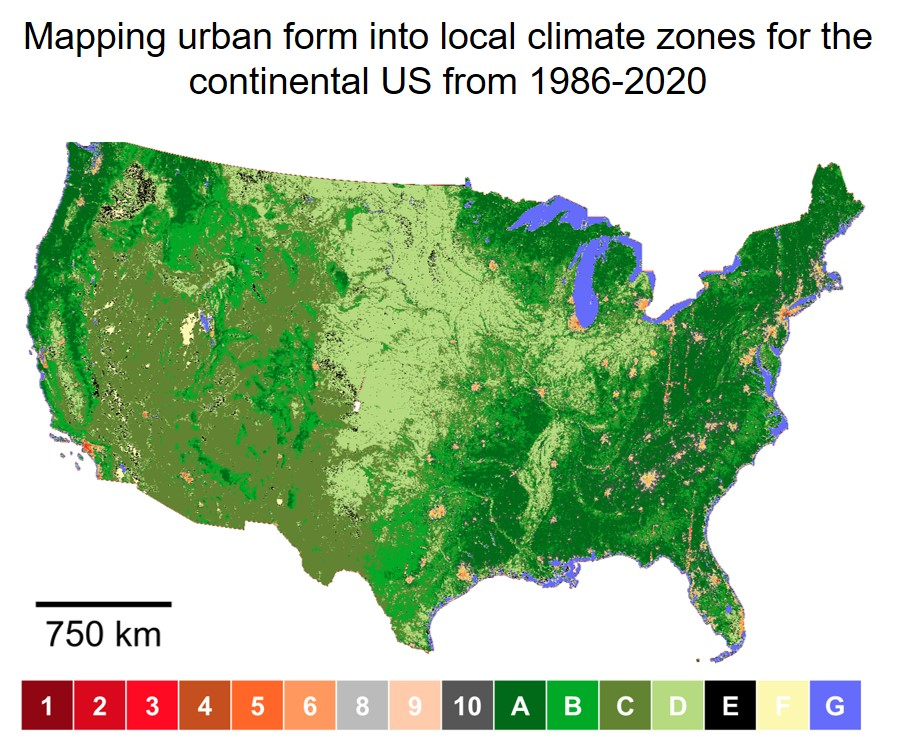
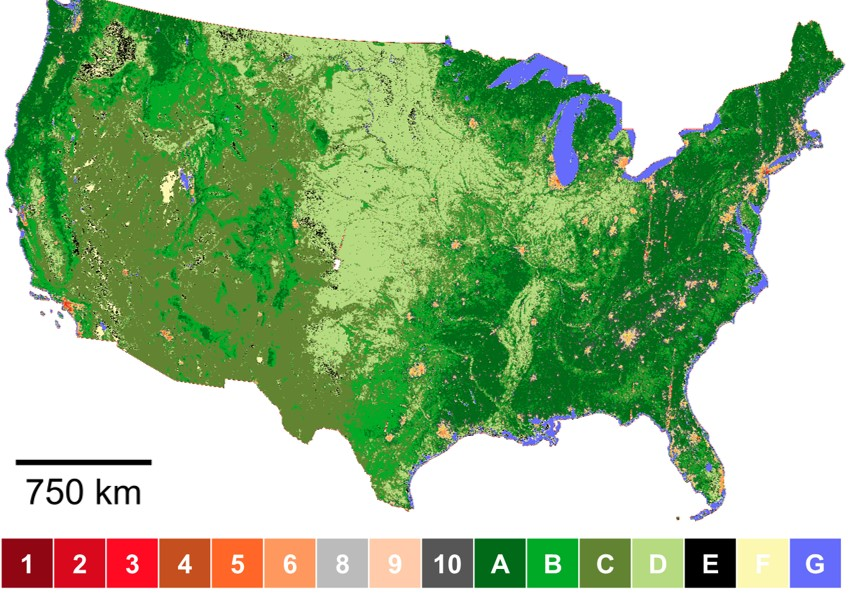
resize the LCZ maps

diff --git a/Readme.md b/Readme.md
@@ -2,7 +2,7 @@
 
 Mapping Urban Form into Local Climate Zones for the Continental US from 1986-2020
 
-<img src="./LCZ_Maps2.jpg" width="400" />
+<img src="./LCZ_Maps.jpg" width="400" />
 
 ## Description
 
